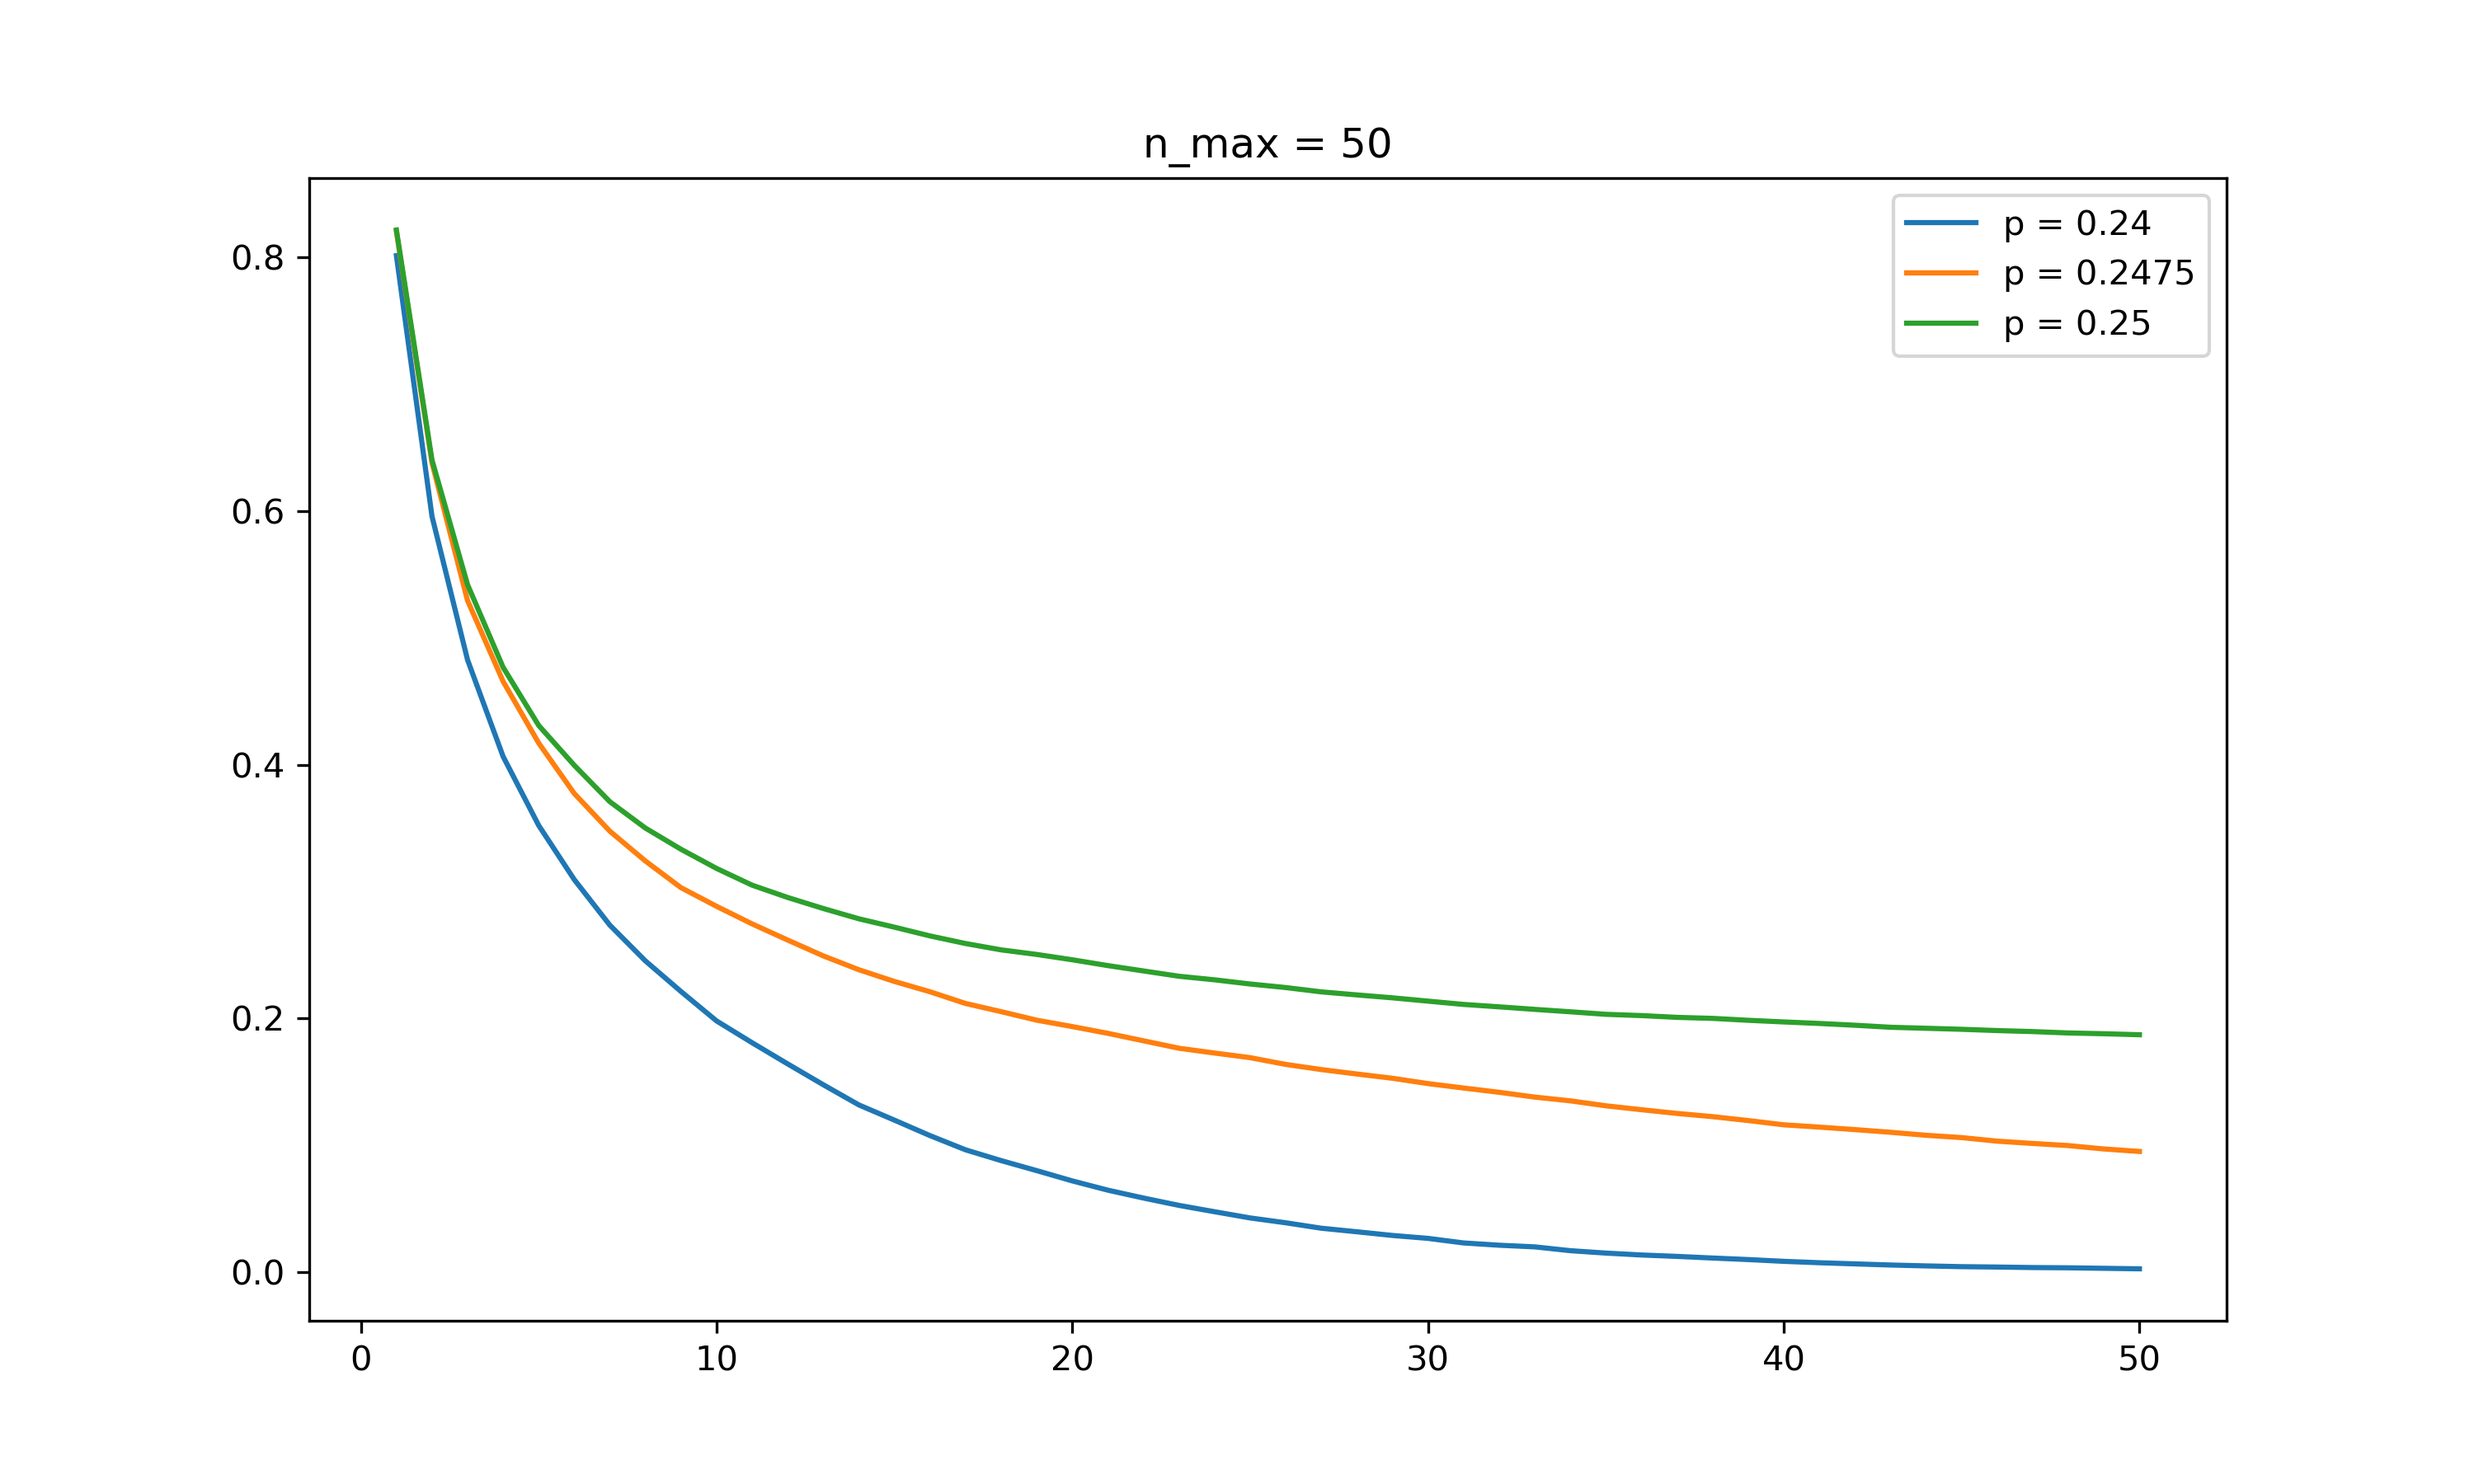
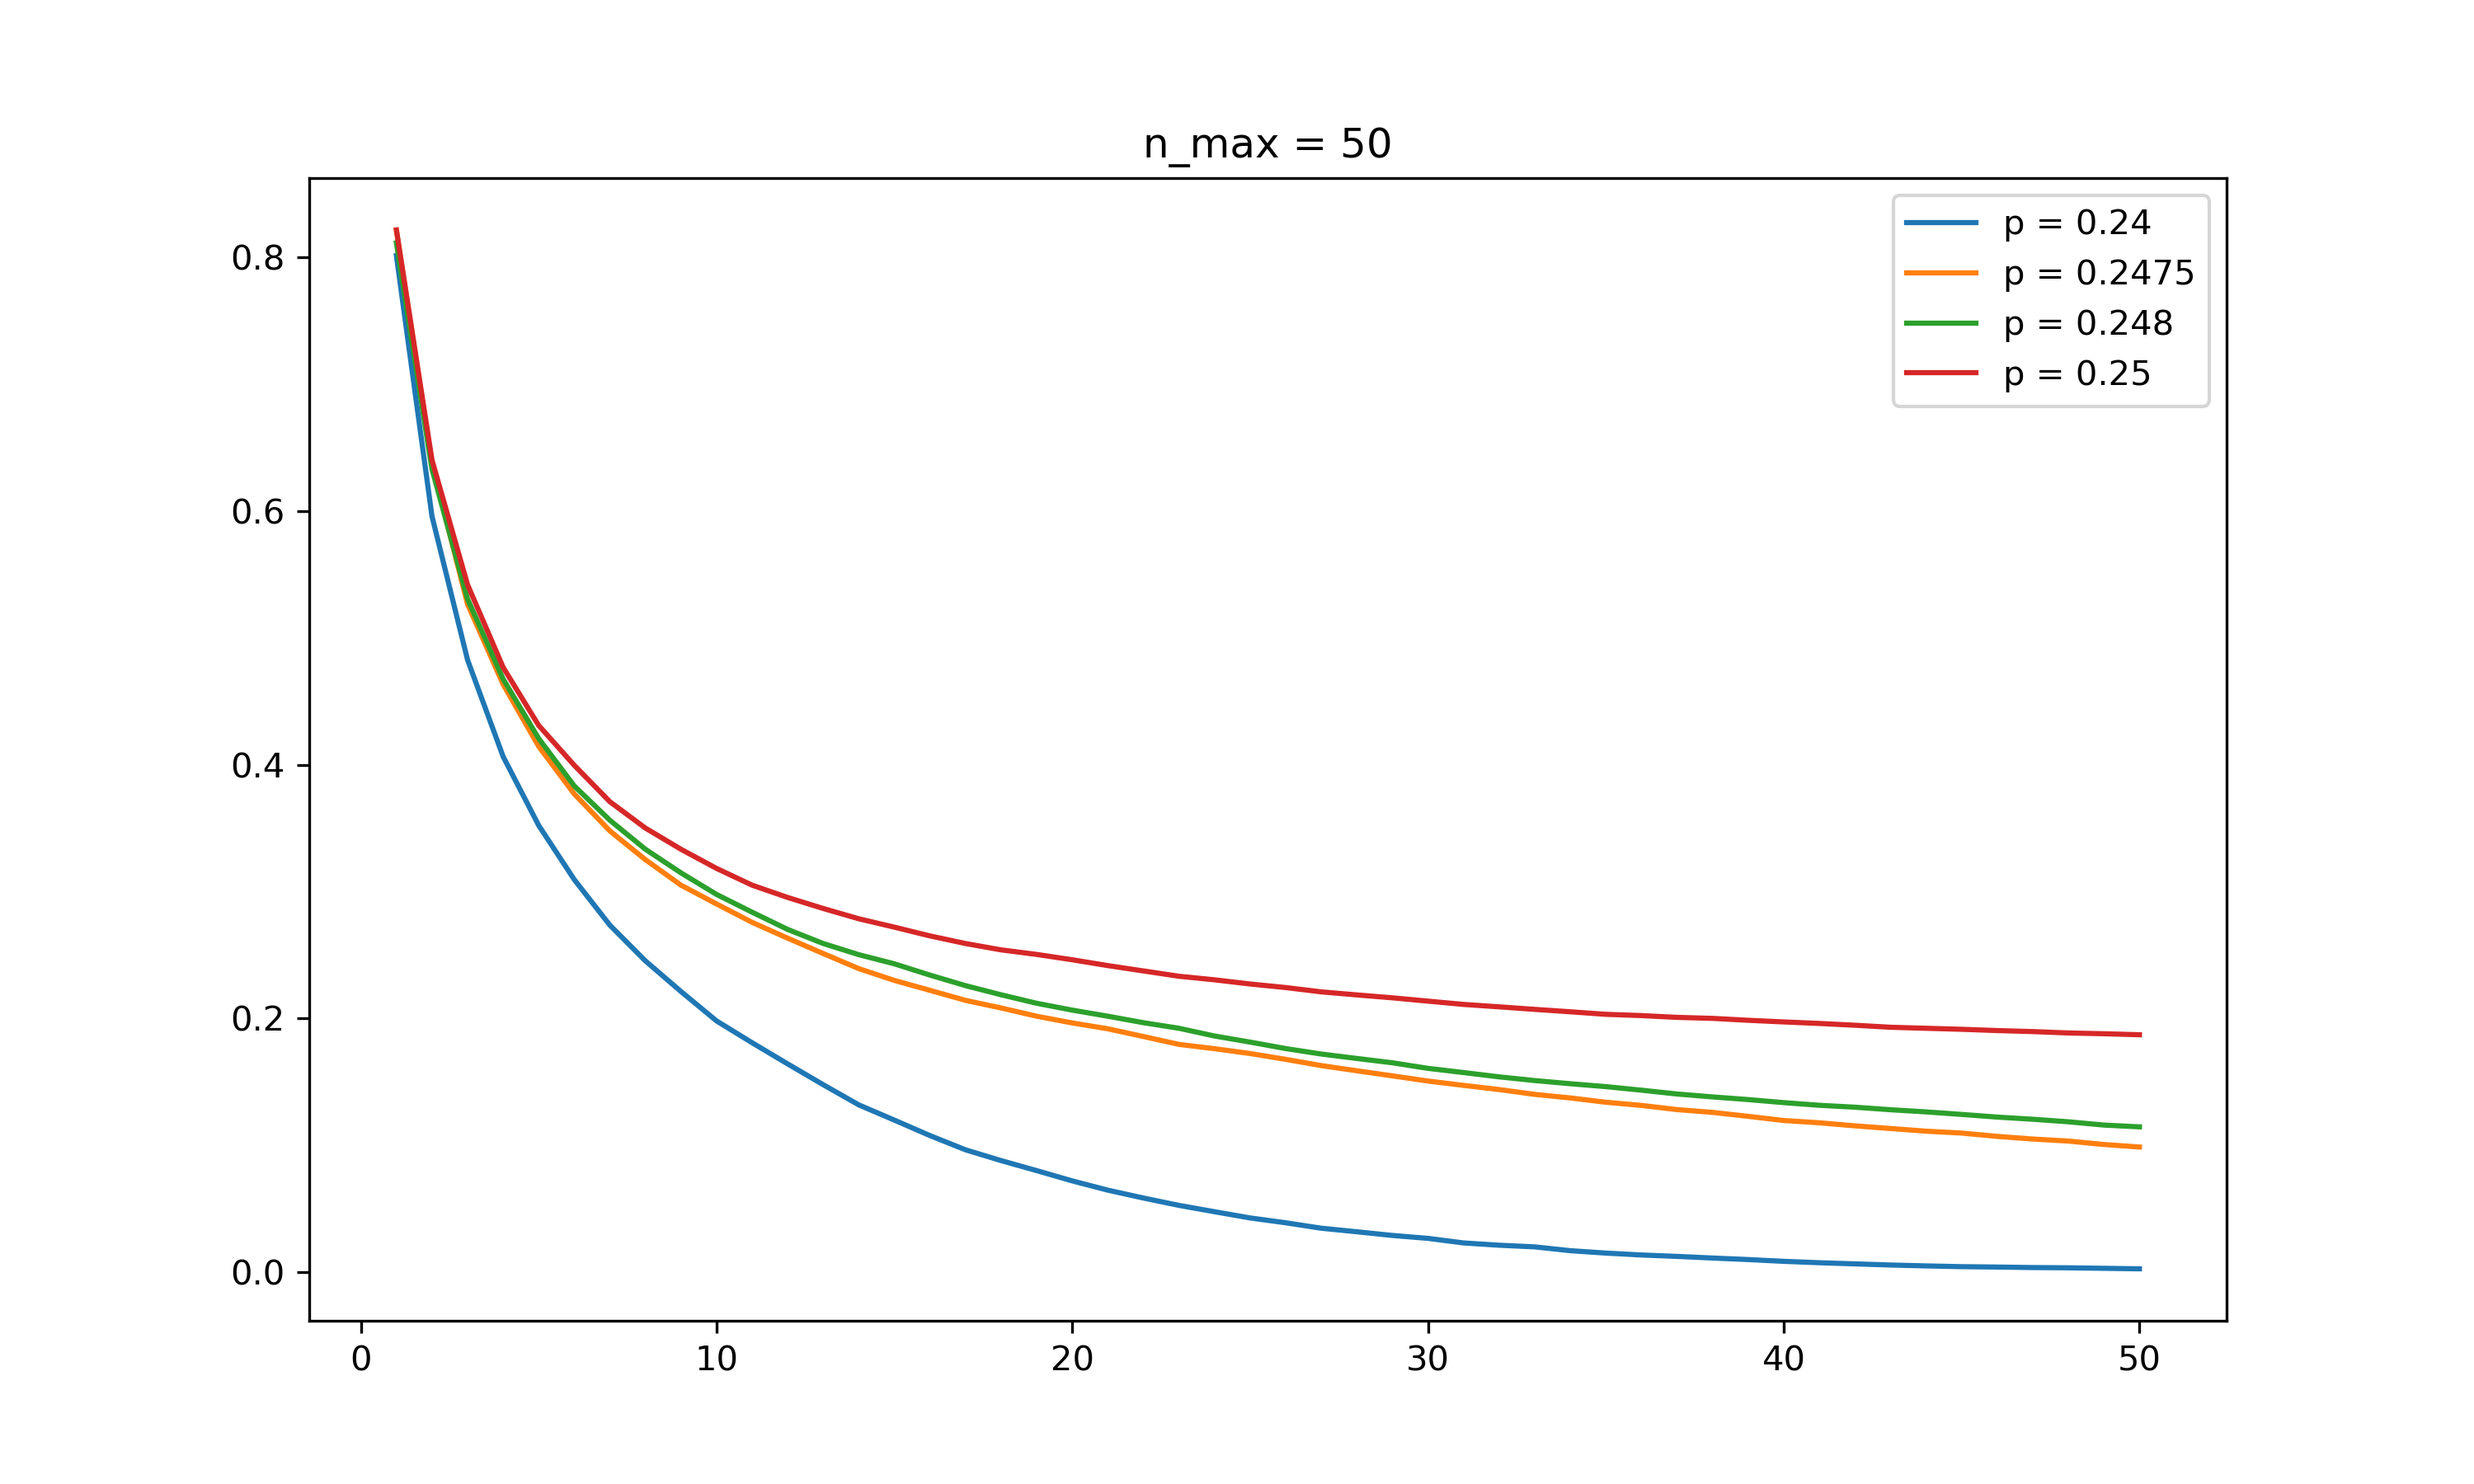
update

diff --git a/multiprocess_far_point.py b/multiprocess_far_point.py
@@ -115,7 +115,7 @@ def main(p, n_max, test_folder, mesh_folder):
     processes = []
     for i in range(num_processes):
         processes.append(multiprocessing.Process(target = process_far_point, args = (p, n_max, trials//num_processes, sub_filepath, i)))
-    processes.append(multiprocessing.Process(target = compile_all_data, args = (p, n_max, num_processes, sub_filepath, final_filepath, trials)))
+    # processes.append(multiprocessing.Process(target = compile_all_data, args = (p, n_max, num_processes, sub_filepath, final_filepath, trials)))
     
     for process in processes:
         process.start()
@@ -124,7 +124,7 @@ def main(p, n_max, test_folder, mesh_folder):
         process.join()
         print(f"Process {i} finished for p={p}")
         
-    compile_all_data(p, n_max, num_process, sub_filepath, final_filepath, trials, 0)
+    compile_all_data(p, n_max, num_processes, sub_filepath, final_filepath, trials, 0)
     print("Finshed")
 
 

diff --git a/seqn.py b/seqn.py
@@ -7,5 +7,7 @@ import multiprocess_far_point as mfp
 p_fine_mesh = [0.2475, 0.2480, 0.2485, 0.2490, 0.2495, 0.2500]
 p_sparsh_mesh = [0.20, 0.21, 0.22, 0.23, 0.24, 0.25]
 p_long = [0.24, 0.25]
-for p in p_fine_mesh:
-    mfp.main(p, n_max = 50, test_folder = "test5", mesh_folder = "fine_long_mesh")
+for p in p_fine_mesh[:-1]:
+    p = 0.2495
+    mfp.main(p, n_max = 100, test_folder = "test6", mesh_folder = "fine_ultralong_mesh")
+    break

diff --git a/temp2.py b/temp2.py
@@ -4,7 +4,7 @@ import matplotlib.pyplot as plt
 
 # Collect all data
 
-folders = ["test", "test2", "test3", "test4", "test5"]
+folders = ["test", "test2", "test3", "test4", "test5", "test6"]
 dest_folder_path = os.path.join(os.getcwd(), "all_record")
 rec = {}
 
